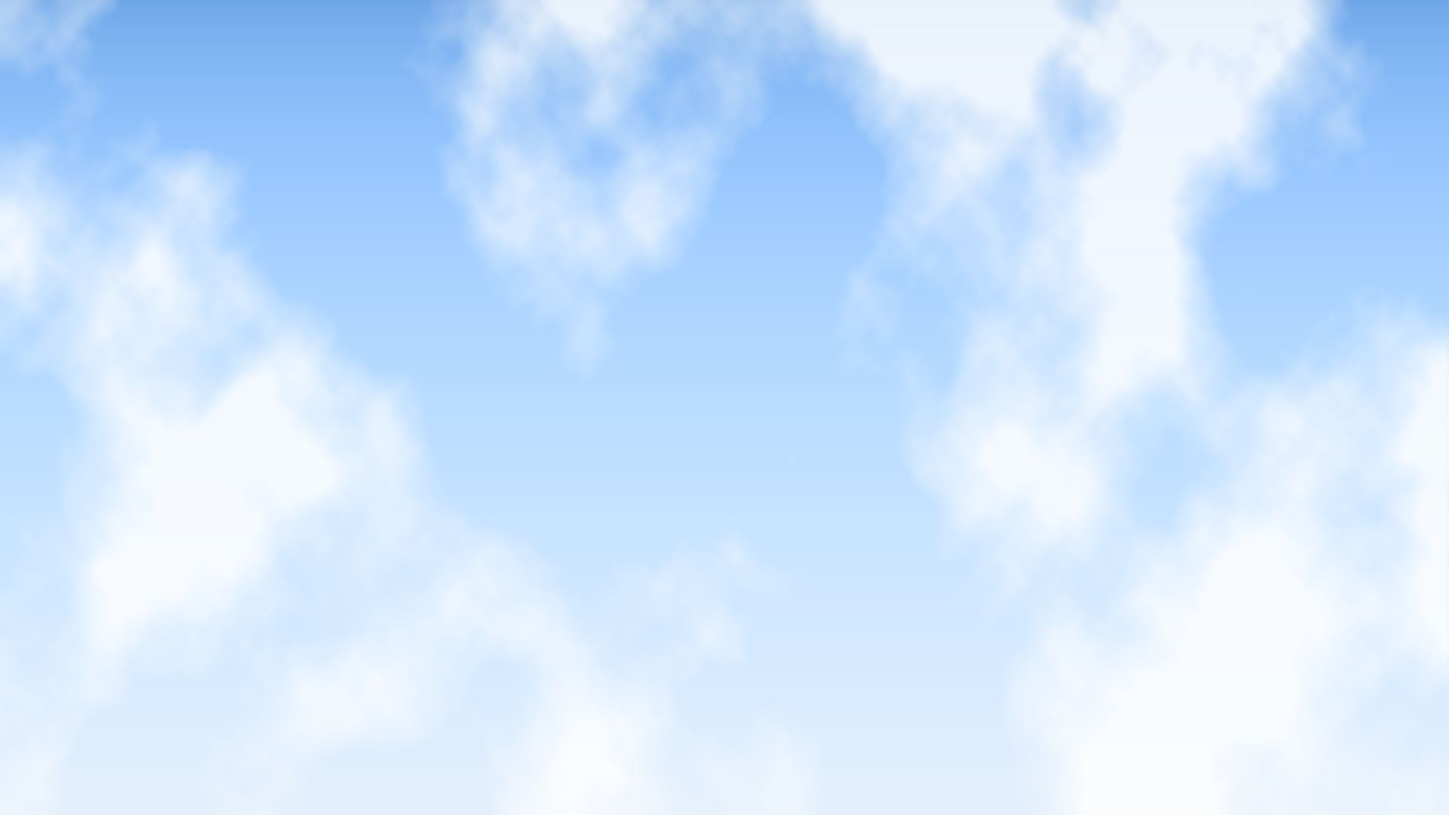
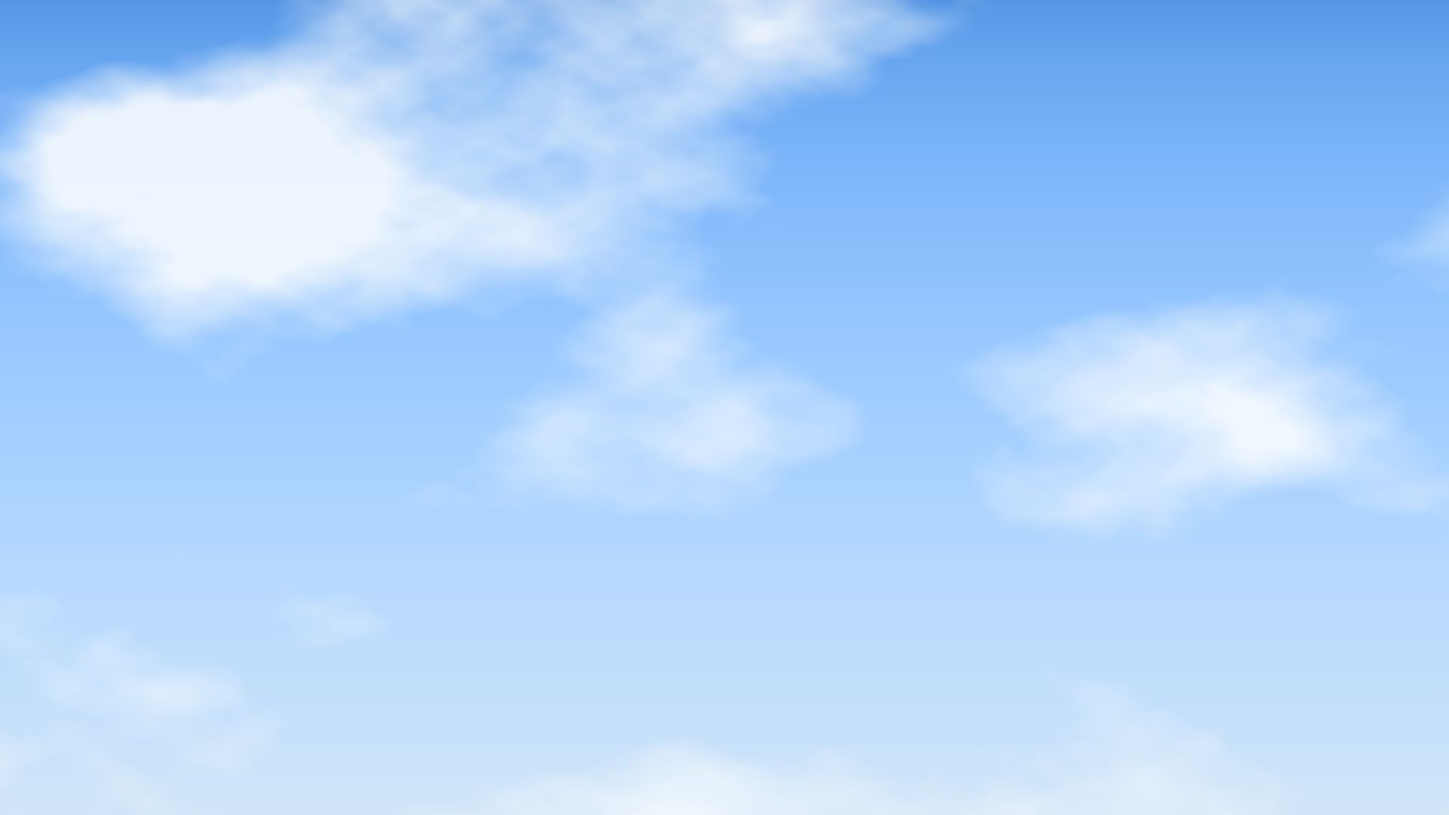
Home 9: sliding sky, frost oval, photo tiles, video slot

diff --git a/static/home-9.html b/static/home-9.html
@@ -43,10 +43,14 @@ nav.m>a:hover,nav.m>.dd:hover>a{color:var(--btn)}
 /* ---------- hero ---------- */
 #hero{position:relative;min-height:max(100svh,760px);display:grid;align-items:center;overflow:hidden;background:#9cc4ee}
 .sky{position:absolute;inset:0;overflow:hidden}
-.sky i{position:absolute;inset:-3% -5%;background-size:cover;background-position:center;opacity:0;transition:opacity 2.6s ease;will-change:transform,opacity}
-.sky i.on{opacity:1}.sky i.on,.sky i.prev{animation:drift 20s linear forwards}
-@keyframes drift{from{transform:translate3d(calc(var(--d,1)*-2.4%),0,0) scale(1.05)}to{transform:translate3d(calc(var(--d,1)*2.4%),0,0) scale(1.05)}}
-.sky::after{content:"";position:absolute;inset:0;background:linear-gradient(90deg,#ffffff59,#ffffff00 58%),linear-gradient(to bottom,#fff0 66%,var(--paper))}
+.trk{display:flex;height:100%;width:max-content;animation:slide var(--dur,110s) linear infinite;will-change:transform}
+.trk i{flex:none;width:100vw;height:100%;background-size:cover;background-position:center}
+@keyframes slide{from{transform:translate3d(-50%,0,0)}to{transform:translate3d(0,0,0)}}
+.frost{position:absolute;inset:0;z-index:1;pointer-events:none}
+.frost .fz{position:absolute;inset:0;clip-path:url(#fzc);-webkit-clip-path:url(#fzc);backdrop-filter:blur(14px) saturate(1.05);-webkit-backdrop-filter:blur(14px) saturate(1.05);background:linear-gradient(165deg,#ffffff6b,#dfe9f573 45%,#eaf1f9a6)}
+.frost svg{position:absolute;inset:0;width:100%;height:100%;overflow:visible}
+.frost .ln{fill:none;stroke:#fff;stroke-linecap:round;vector-effect:non-scaling-stroke}
+.vfade{position:absolute;inset:auto 0 0;height:22%;z-index:2;background:linear-gradient(#fff0,var(--paper));pointer-events:none}
 .hin{position:relative;z-index:3;width:100%;max-width:1920px;margin:auto;padding:118px clamp(24px,7.5vw,150px) 96px;display:grid;grid-template-columns:minmax(300px,24vw) minmax(0,1fr);gap:clamp(28px,2.6vw,52px);align-items:center}
 .hl .ey{font-weight:700;font-size:.9rem;text-transform:uppercase;letter-spacing:.015em;margin-bottom:26px;max-width:340px;line-height:1.35}
 .hl h1{font-weight:600;font-size:clamp(2.4rem,2.55vw + 1.1rem,3.9rem);line-height:1.04;letter-spacing:-.022em}
@@ -90,7 +94,7 @@ nav.m>a:hover,nav.m>.dd:hover>a{color:var(--btn)}
  .cell img{height:40px}
  .spin img{transform:translateZ(calc((var(--i) - 6.5)*1px))}
 }
-@media(prefers-reduced-motion:reduce){html{scroll-behavior:auto}.spin{animation:none}.sky i.on,.sky i.prev{animation:none}*{transition-duration:.01s!important}}
+@media(prefers-reduced-motion:reduce){html{scroll-behavior:auto}.spin{animation:none}.trk{animation:none}*{transition-duration:.01s!important}}
 
 /* floating actions */
 .fab{position:fixed;right:clamp(14px,1.6vw,28px);bottom:clamp(14px,2.6vw,40px);z-index:55;display:grid;gap:9px;justify-items:end}
@@ -118,25 +122,56 @@ nav.m>a:hover,nav.m>.dd:hover>a{color:var(--btn)}
 @keyframes fl{50%{translate:0 -12px}}
 @media(max-width:860px){.ask{grid-template-columns:1fr}.orb{width:min(70vw,340px)}}
 
-/* ---------- services ---------- */
-#services{padding:clamp(80px,9vw,140px) 0;background:#fff}
-.sh{text-align:center;display:grid;justify-items:center}
-.sg{display:grid;grid-template-columns:repeat(3,1fr);gap:clamp(16px,2vw,28px);margin-top:clamp(40px,5vw,70px)}
-.sc2{position:relative;display:flex;flex-direction:column;background:linear-gradient(#fff,#f4f8fd);border:1px solid #0b1f4b17;border-radius:20px;overflow:hidden;transition:transform .35s,box-shadow .35s}
-.sc2:hover{transform:translateY(-6px);box-shadow:0 26px 54px #0b1f4b24}
-.sc2:target{box-shadow:0 0 0 3px var(--blue),0 26px 54px #17ade840}
-.sc2 .im{height:210px;display:grid;place-items:center;padding:28px;background:radial-gradient(circle at 50% 60%,#dff1ff,#eef6fd 70%)}
-.sc2 .im img{height:150px;width:auto;max-width:72%;object-fit:contain}
-.sc2 .tx{padding:26px 28px 30px;display:flex;flex-direction:column;gap:12px;flex:1}
-.sc2 h3{font-weight:700;font-size:1.28rem;line-height:1.2;letter-spacing:-.01em}
-.sc2 p{color:var(--mute);line-height:1.6;font-size:.98rem;flex:1}
-.sc2 .go{font-weight:800;font-size:.86rem;text-transform:uppercase;color:var(--btn);display:inline-flex;gap:10px;align-items:center;margin-top:6px}
-.sc2 .go i{font-style:normal;transition:translate .3s}.sc2 .go:hover i{translate:6px 0}
-.chips{display:flex;flex-wrap:wrap;gap:10px;justify-content:center;margin-top:clamp(50px,6vw,84px);max-width:1100px;margin-inline:auto}
-.chips span{padding:10px 18px;border-radius:999px;background:var(--paper);border:1px solid #0b1f4b14;font-weight:600;font-size:.92rem;color:#243253}
-.chips-t{text-align:center;margin-top:clamp(50px,6vw,84px);font-size:1.05rem;font-weight:700;color:var(--mute)}
-.chips-t+.chips{margin-top:20px}
-@media(max-width:1000px){.sg{grid-template-columns:1fr 1fr}}@media(max-width:620px){.sg{grid-template-columns:1fr}}
+/* ---------- video / about ---------- */
+#vid{background:linear-gradient(var(--paper),#e9eff7);padding:clamp(40px,5vw,80px) 0 clamp(60px,7vw,110px)}
+.vg{display:grid;grid-template-columns:1.08fr 1fr;gap:clamp(30px,5vw,90px);align-items:center}
+.vb{position:relative;aspect-ratio:16/9;border-radius:22px;overflow:hidden;background:#06163f;box-shadow:0 30px 70px #0b1f4b40;border:1px solid #ffffffaa}
+.vb>img,.vb>video,.vb>iframe{position:absolute;inset:0;width:100%;height:100%;object-fit:cover;border:0}
+.vb .pl{position:absolute;left:50%;top:50%;translate:-50% -50%;width:84px;height:84px;border-radius:50%;background:#ffffffee;display:grid;place-items:center;box-shadow:0 12px 40px #0008;transition:transform .3s}
+.vb .pl:hover{transform:scale(1.08)}.vb .pl::after{content:"";border-left:24px solid var(--btn);border-top:15px solid transparent;border-bottom:15px solid transparent;margin-left:7px}
+.vt .lb{font-size:.76rem;letter-spacing:.12em;text-transform:uppercase;color:#6d7a94;font-weight:600}
+.vt h2{font-weight:600;font-size:clamp(1.7rem,2.3vw,2.4rem);line-height:1.12;letter-spacing:-.015em;margin:16px 0 18px;color:#1d2c4d}
+.vt p{color:var(--mute);line-height:1.7}.vt p b{display:block;margin-top:16px;color:#1d2c4d;font-weight:700}
+.vt .cta{height:52px;padding:0 28px;margin-top:30px;font-size:.92rem}
+@media(max-width:900px){.vg{grid-template-columns:1fr}}
+
+/* ---------- services (photo tiles, two staggered columns) ---------- */
+#services{padding:clamp(70px,8vw,130px) 0;background:linear-gradient(#e9eff7,#fff 30%)}
+.sv{display:grid;grid-template-columns:minmax(250px,.75fr) 2fr;gap:clamp(30px,5vw,90px);align-items:start}
+.svh{position:sticky;top:120px}
+.svh .h2{font-weight:500}
+.chips-t{margin-top:38px;font-size:.95rem;font-weight:700;color:var(--mute)}
+.chips{display:flex;flex-wrap:wrap;gap:8px;margin-top:14px}
+.chips span{padding:8px 14px;border-radius:999px;background:#fff;border:1px solid #0b1f4b14;font-weight:600;font-size:.82rem;color:#243253}
+.cols{display:grid;grid-template-columns:1fr 1fr;gap:clamp(14px,1.8vw,26px)}
+.col{display:grid;gap:clamp(14px,1.8vw,26px);align-content:start;will-change:transform}
+.col.b{padding-top:clamp(60px,8vw,130px)}
+.tile{position:relative;display:flex;flex-direction:column;justify-content:flex-end;aspect-ratio:1.18;border-radius:20px;overflow:hidden;color:#fff;isolation:isolate;border:1px solid #ffffff80;box-shadow:0 22px 50px #0b1f4b2b;background:radial-gradient(circle at 72% 32%,hsl(var(--h) 72% 40%),hsl(var(--h) 66% 14%) 74%);transition:transform .4s,box-shadow .4s}
+.tile:hover,.tile:focus-visible{transform:translateY(-5px);box-shadow:0 32px 64px #0b1f4b45}
+.tile:target{box-shadow:0 0 0 3px var(--blue),0 32px 64px #17ade855}
+.tile .ph{position:absolute;inset:0;z-index:-2;background-size:cover;background-position:center;transition:transform .8s}
+.tile:hover .ph{transform:scale(1.06)}
+.tile .ic{position:absolute;z-index:-1;right:7%;top:9%;height:50%;width:auto;max-width:62%;object-fit:contain;filter:drop-shadow(0 16px 20px #0007);transition:transform .6s}
+.tile .ic.inv{filter:brightness(0) invert(1) drop-shadow(0 10px 16px #0006)}
+.tile:hover .ic{transform:scale(1.07) rotate(-2deg)}
+.tile::after{content:"";position:absolute;inset:0;z-index:-1;background:linear-gradient(to top,#04103ad9 6%,#04103a66 40%,#04103a00 66%)}
+.tile .tt{padding:0 clamp(16px,1.8vw,26px) clamp(16px,1.8vw,24px)}
+.tile h3{font-weight:600;font-size:clamp(1.25rem,1.85vw,1.9rem);line-height:1.08;letter-spacing:-.015em;text-shadow:0 2px 16px #0007}
+.tile p{font-size:.92rem;line-height:1.5;color:#ffffffd9;max-height:0;opacity:0;overflow:hidden;transition:max-height .45s,opacity .4s,margin .4s}
+.tile:hover p,.tile:focus-visible p{max-height:120px;opacity:1;margin-top:10px}
+.tile .go{position:absolute;right:16px;top:16px;width:38px;height:38px;border-radius:50%;background:#ffffffd9;color:var(--btn);display:grid;place-items:center;font-size:1.1rem;font-weight:800;transition:transform .3s,background .3s}
+.tile:hover .go{transform:rotate(-45deg);background:#fff}
+@media(max-width:1000px){.sv{grid-template-columns:1fr}.svh{position:static}}
+@media(max-width:620px){.tile{aspect-ratio:1;border-radius:16px}.tile p{display:none}.tile .go{display:none}.col.b{padding-top:44px}.tile h3{font-size:1.08rem}}
+
+/* ---------- cta band ---------- */
+#band{background:#fff;padding:0 0 clamp(60px,7vw,100px)}
+.bd{display:grid;grid-template-columns:auto 1fr auto;gap:clamp(20px,4vw,60px);align-items:center;border-radius:26px;padding:clamp(24px,3.4vw,46px) clamp(24px,4vw,64px);color:#fff;background:radial-gradient(circle at 12% 50%,#1b6fe0,#0a2f78 45%,#061a4d);box-shadow:0 30px 70px #0b1f4b40;overflow:hidden}
+.bd img{height:clamp(90px,10vw,150px);filter:drop-shadow(0 0 30px #6fc9ff)}
+.bd small{font-size:.76rem;letter-spacing:.12em;text-transform:uppercase;color:#9fd4ff;font-weight:600}
+.bd h2{font-weight:500;font-size:clamp(1.5rem,2.4vw,2.3rem);line-height:1.12;margin-top:10px;max-width:620px}
+.bd .cta{margin:0;background:#17ade8;height:54px;white-space:nowrap}.bd .cta:hover{background:#fff;color:var(--navy)}
+@media(max-width:820px){.bd{grid-template-columns:1fr;text-align:center;justify-items:center}}
 
 /* ---------- about + stats ---------- */
 #about{background:linear-gradient(#fff,var(--paper));padding:clamp(70px,8vw,130px) 0 clamp(70px,8vw,120px)}
@@ -233,15 +268,18 @@ cl=cl.map(c=>Array.isArray(c)?{i:c[0],t:"Hardware & Office IT",img:S[c[1]].img}:
 const cell=c=>`<a class="cell" href="#svc-${c.i}" title="${esc(c.t)}"><img src="${esc(c.img)}" alt=""><span>${esc(c.t)}</span></a>`;
 const L=8;let lay="";for(let k=0;k<14;k++)lay+=`<img src="/img/shield.png" alt="" style="--i:${k}" ${k&&k<13?'class="mid"':""}>`;
 const PATH="M30,0H372C405,0 418,66 462,66H638C682,66 695,0 728,0H1070Q1100,0 1100,30V370Q1100,400 1070,400H728C695,400 682,334 638,334H462C418,334 405,400 372,400H30Q0,400 0,370V30Q0,0 30,0Z";
-const slides=(C.hero_slides&&C.hero_slides.length?C.hero_slides:DEF.hero_slides);
+const FZT="M0,.58C.08,.36 .26,.2 .4,.1C.48,.04 .53,0 .58,0C.68,0 .84,.12 .93,.2C.96,.23 .98,.25 1,.27",FZ=FZT+"L1,1L0,1";
+const slides=(C.hero_slides||[]).filter(Boolean).length?C.hero_slides.filter(Boolean):DEF.hero_slides;
 
 const BL=p=>{const b=(C.blocks&&C.blocks[p])||[];return b.length?`<div class="wrap">${b.map(x=>x.type=="text"?`<section class="blk"><h2>${esc(x.title)}</h2><p>${esc(x.body)}</p></section>`:x.type=="media"?`<figure class="blk">${M(x.url)}</figure>`:x.type=="gallery"?`<section class="blk">${x.title?`<h2>${esc(x.title)}</h2>`:""}<div class="gal">${(x.urls||[]).map(M).join("")}</div></section>`:x.type=="cta"?`<section class="blk"><a class="cta" href="#${esc(x.target||"contact")}">${esc(x.label)}</a></section>`:"").join("")}</div>`:""};
 const why=C.why.map((w,i)=>`<article class="${i?"":"on"}"><h3>${esc(w.t)}</h3><p>${esc(w.d)}</p></article>`).join("");
 const clients=C.clients.map(u=>`<div class="cc">${M(u)}</div>`).join("");
 const ask=(C.ask||[]).map(a=>`<li><a href="${esc(a.href||"#contact")}"><span>${esc(a.q)}</span><i>›</i></a></li>`).join("");
 
+const tile=(s,i)=>{const ph=s.bg&&!isV(s.bg)?`<div class="ph" style="background-image:url('${encodeURI(s.bg).replace(/'/g,"%27")}')"></div>`:"",ic=ph?"":`<img class="ic ${s.inv?"inv":""}" src="${esc(s.img)}" alt="">`;return `<a class="tile" id="svc-${i}" href="#contact" data-s="${esc(s.title)}" style="--h:${205+(i%5)*6}">${ph}${ic}<span class="go">→</span><div class="tt"><h3>${esc(s.title)}</h3><p>${esc(s.desc)}</p></div></a>`};
 $("#top").innerHTML=`
-<section id="hero"><div class="sky">${slides.map(()=>"<i></i>").join("")}</div>
+<section id="hero"><div class="sky"><div class="trk" style="--dur:${slides.length*22}s">${[...slides,...slides].map(u=>`<i style="background-image:url('${encodeURI(u)}')"></i>`).join("")}</div></div>
+ <div class="frost" aria-hidden="true"><div class="fz"></div><svg viewBox="0 0 1 1" preserveAspectRatio="none"><defs><clipPath id="fzc" clipPathUnits="objectBoundingBox"><path d="${FZ}Z"/></clipPath><filter id="fgl" x="-5%" y="-5%" width="110%" height="110%"><feGaussianBlur stdDeviation="3"/></filter></defs><path class="ln" d="${FZT}" stroke-width="9" stroke-opacity=".5" filter="url(#fgl)"/><path class="ln" d="${FZT}" stroke-width="2.5"/><path class="ln" d="${FZT}" stroke-width="1.5" stroke-opacity=".6" transform="translate(0 .018)"/></svg></div><div class="vfade"></div>
  <div class="hin">
   <div class="hl"><div class="ey">${X("loader_tagline")}</div><h1>${X("hero_title")}</h1><p>${X("hero_sub")}</p><a class="cta" href="#contact">${X("hero_cta")}</a></div>
   <div class="panel">
@@ -252,11 +290,15 @@ $("#top").innerHTML=`
   </div>
  </div></section>
 
+<section id="vid"><div class="wrap vg"><div class="vb" id="vb"><img src="${esc(C.video&&C.video.poster||"/img/video-poster.jpg")}" alt="">${(C.video&&(C.video.src||C.video.url))?`<button class="pl" id="plb" aria-label="Play video"></button>`:""}</div>
+ <div class="vt"><div class="lb">${X("video_tag")}</div><h2>${X("video_title")}</h2><p>${X("video_p")}<b>${X("video_b")}</b></p><a class="cta" href="#about">${X("video_btn")}</a></div></div></section>
+
 <section id="ask"><div class="wrap ask"><div><h2 class="h2">${X("ask_title")}</h2><p class="lead">${X("ask_sub")}</p><ul class="ql">${ask}</ul></div><div class="orb"><img src="/img/shield.png" alt="Topform shield"></div></div></section>
 
-<section id="services"><div class="wrap"><div class="sh"><h2 class="h2">${X("svc_tag")}</h2><p class="lead">${X("svc_sub")}</p></div>
- <div class="sg">${S.map((s,i)=>`<article class="sc2" id="svc-${i}"><div class="im">${M(s.img)}</div><div class="tx"><h3>${esc(s.title)}</h3><p>${esc(s.desc)}</p><a class="go" href="#contact" data-s="${esc(s.title)}">${X("svc_more")} <i>→</i></a></div></article>`).join("")}</div>
- <p class="chips-t">${X("tags_title")}</p><div class="chips">${C.tags.map(t=>`<span>${esc(t)}</span>`).join("")}</div></div>${BL("services")}</section>
+<section id="services"><div class="wrap sv"><div class="svh"><h2 class="h2">${X("svc_tag")}</h2><p class="lead">${X("svc_sub")}</p><p class="chips-t">${X("tags_title")}</p><div class="chips">${C.tags.slice(0,10).map(t=>`<span>${esc(t)}</span>`).join("")}</div></div>
+ <div class="cols"><div class="col a" id="ca">${S.map((s,i)=>i%2?"":tile(s,i)).join("")}</div><div class="col b" id="cb">${S.map((s,i)=>i%2?tile(s,i):"").join("")}</div></div></div>${BL("services")}</section>
+
+<section id="band"><div class="wrap"><div class="bd"><img src="/img/shield.png" alt=""><div><small>${X("svc_since")}</small><h2>${X("svc_cta")}</h2></div><a class="cta" href="#contact">${X("band_btn")}</a></div></div></section>
 
 <section id="about"><div class="wrap"><div class="ab"><h2 class="h2">${X("about_title")}</h2><div><p>${X("about_p")}</p><p>${X("about_stmt")}</p></div></div>
  <div class="st"><div><b data-c="${yr-since}" data-x="+">0</b><span>Years serving the UAE</span></div><div><b data-c="${C.branches.length}">0</b><span>Branches</span></div><div><b data-c="${N}">0</b><span>Services under one roof</span></div></div></div>${BL("about")}</section>
@@ -281,10 +323,13 @@ $("#top").innerHTML=`
  <div><b>Visit</b><span>${X("office")}</span></div></div>
  <div class="cp"><span>© ${yr} ${X("footer")}</span><span>Secure · Connect · Power</span></div></div></footer>`;
 
-// sky slideshow
-const sk=$$(".sky i");sk.forEach((e,i)=>{const u=slides[i];if(i==0)e.style.backgroundImage=`url("${encodeURI(u)}")`;else{const im=new Image();im.onload=()=>e.style.backgroundImage=`url("${encodeURI(u)}")`;im.src=u}});
-let k=-1;function go(n){const p=sk[k];k=n%sk.length;const c=sk[k];c.style.setProperty("--d",k%2?-1:1);c.classList.remove("prev");c.classList.add("on");if(p&&p!==c){p.classList.remove("on");p.classList.add("prev");setTimeout(()=>p.classList.remove("prev"),3000)}}
-go(0);if(sk.length>1&&!calm)setInterval(()=>go(k+1),9000);
+// video play
+const plb=$("#plb");if(plb)plb.onclick=()=>{const v=C.video,u=v.src||v.url,vb=$("#vb");let m=u.match(/(?:youtu\.be\/|youtube\.com\/(?:watch\?v=|embed\/|shorts\/))([\w-]{11})/),vm=u.match(/vimeo\.com\/(\d+)/);
+ vb.innerHTML=m?`<iframe src="https://www.youtube.com/embed/${m[1]}?autoplay=1&rel=0" allow="autoplay;fullscreen" allowfullscreen></iframe>`:vm?`<iframe src="https://player.vimeo.com/video/${vm[1]}?autoplay=1" allow="autoplay;fullscreen" allowfullscreen></iframe>`:`<video src="${esc(u)}" controls autoplay playsinline></video>`};
+// service columns: gentle opposite drift on scroll
+const ca=$("#ca"),cb=$("#cb"),sv=$("#services");let tk=0;
+function par(){tk=0;if(calm||innerWidth<1000){ca.style.transform=cb.style.transform="";return}const r=sv.getBoundingClientRect(),p=Math.max(-1,Math.min(1,(r.top+r.height/2-innerHeight/2)/innerHeight));ca.style.transform=`translateY(${(p*-46).toFixed(1)}px)`;cb.style.transform=`translateY(${(p*46).toFixed(1)}px)`}
+addEventListener("scroll",()=>{if(!tk){tk=1;requestAnimationFrame(par)}},{passive:true});addEventListener("resize",par);par();
 
 // header + menu
 const hd=$("#hd"),nv=$("#nv"),bg=$("#bg");
@@ -303,7 +348,7 @@ const rst=()=>{clearInterval(au);if(!calm&&sl.length>1)au=setInterval(()=>show(s
 db.forEach(b=>b.onclick=()=>{show(+b.dataset.n);rst()});
 
 // service button pre-fills the enquiry subject
-$$(".sc2 .go").forEach(a=>a.addEventListener("click",()=>{const f=$("#fm [name=Subject]");if(f)f.value=a.dataset.s}));
+$$(".tile").forEach(a=>a.addEventListener("click",()=>{const f=$("#fm [name=Subject]");if(f)f.value=a.dataset.s}));
 
 // branches
 document.addEventListener("click",e=>{const b=e.target.closest(".tb button");if(b){$$(".tb button").forEach(x=>x.classList.remove("on"));b.classList.add("on");$("#branches iframe").src="https://www.google.com/maps?q="+encodeURIComponent(b.dataset.q)+"&output=embed"}});

diff --git a/static/admin.html b/static/admin.html
@@ -40,7 +40,7 @@ const ctl=(a,i)=>el("div",{class:"row"},el("button",{class:"btn s",onclick:()=>m
 const up=(f,pr)=>new Promise((res,rej)=>{const x=new XMLHttpRequest();x.open("POST","/api/admin/upload");x.setRequestHeader("X-Requested-With","tf");x.upload.onprogress=e=>pr&&e.lengthComputable&&pr(e.loaded/e.total);x.onload=()=>x.status===200?res(JSON.parse(x.responseText)):rej(new Error(x.responseText||("HTTP "+x.status)));x.onerror=()=>rej(new Error("network error"));const fd=new FormData();fd.append("file",f);x.send(fd)});
 async function uploadMany(files,after,bar=$("#mb")){const i=bar.firstChild;bar.hidden=false;for(const f of files){try{i.style.width="0";await up(f,p=>i.style.width=(p*100)+"%")}catch(e){alert(f.name+": "+e.message)}}bar.hidden=true;after&&after()}
 async function loadMedia(cb){const b=$("#mbody");b.replaceChildren("Loading…");let list=[];try{list=await (await api("GET","/api/admin/media")).json()}catch(e){}
- const built=[...new Set([DEF.logo,DEF.icon,...DEF.services.map(s=>s.img),...DEF.products,...DEF.clients])];
+ const built=[...new Set([DEF.logo,DEF.icon,...DEF.services.map(s=>s.img),...DEF.products,...DEF.clients,...DEF.hero_slides,DEF.video.poster])];
  b.replaceChildren(...[...list.map(m=>({u:m.url,n:m.name,del:1})),...built.map(u=>({u,n:"built-in"}))].map(m=>{const c=el("div",{class:"mi",onclick:()=>cb&&cb(m.u)},el("div",{class:"pv"},prev(m.u)),el("small",{},m.n));
   if(m.del)c.append(el("button",{class:"btn s d",onclick:async e=>{e.stopPropagation();if(!confirm("Delete this file permanently?"))return;await api("DELETE","/api/admin/media?name="+encodeURIComponent(m.n));loadMedia(cb)}},"Delete"));return c}))}
 function pick(cb){const m=$("#modal");m.hidden=false;const sel=u=>{m.hidden=true;cb(u)};loadMedia(sel);$("#mu").onchange=e=>{uploadMany([...e.target.files],()=>loadMedia(sel));e.target.value=""}}
@@ -50,10 +50,10 @@ const hum=k=>k.replace(/_/g," ").replace(/^./,c=>c.toUpperCase());
 function listEd(title,arr,mk,blank){const c=el("div",{class:"card"},el("h3",{},title));arr.forEach((x,i)=>c.append(el("div",{class:"card",style:"background:#f6f9fe;box-shadow:none"},mk(x,i),ctl(arr,i))));c.append(el("button",{class:"btn s",onclick:()=>{arr.push(blank());mark();render()}},"+ Add"));return c}
 const TABS={
  texts:()=>{const g={};Object.keys(DEF.text).forEach(k=>(g[sectionOf(k)]??=[]).push(k));return[...Object.entries(g).map(([n,ks])=>el("div",{class:"card"},el("h3",{},n),ks.map(k=>fld(hum(k),D.text,k,(D.text[k]||"").length>70)))),chipEd()]},
- services:()=>[listEd("Services",D.services,(s)=>el("div",{class:"grid2"},el("div",{class:"f"},fld("Title",s,"title"),fld("Description",s,"desc",1),fld("Emoji / icon",s,"icon"),el("label",{class:"row"},(()=>{const c=el("input",{type:"checkbox",style:"width:auto"});c.checked=!!s.inv;c.onchange=()=>{s.inv=c.checked;mark()};return c})(),"Show in white on dark cards (for black icons)")),el("div",{},mfld("Centre piece: image / GIF / video",s,"img"),(()=>{const f=mfld("Room background image (hero, wide 16:9 or 2:1)",s,"bg");f.querySelector(".row").append(el("button",{class:"btn s d",onclick:()=>{s.bg="";mark();render()}},"Clear"));return f})())),()=>({icon:"",title:"New service",desc:"",img:"/img/cctv.png",bg:""}))],
+ services:()=>[listEd("Services",D.services,(s)=>el("div",{class:"grid2"},el("div",{class:"f"},fld("Title",s,"title"),fld("Description",s,"desc",1),fld("Emoji / icon",s,"icon"),el("label",{class:"row"},(()=>{const c=el("input",{type:"checkbox",style:"width:auto"});c.checked=!!s.inv;c.onchange=()=>{s.inv=c.checked;mark()};return c})(),"Show in white on dark cards (for black icons)")),el("div",{},mfld("Centre piece: image / GIF / video",s,"img"),(()=>{const f=mfld("Card photo for Home 9 service cards / room background (wide, 16:9)",s,"bg");f.querySelector(".row").append(el("button",{class:"btn s d",onclick:()=>{s.bg="";mark();render()}},"Clear"));return f})())),()=>({icon:"",title:"New service",desc:"",img:"/img/cctv.png",bg:""}))],
  why:()=>[listEd("Why choose us",D.why,w=>el("div",{},fld("Title",w,"t"),fld("Text",w,"d",1)),()=>({t:"New point",d:""}))],
  lists:()=>[listEd("Home page: Ask Topform questions (link: #contact, #about, #branches, #svc-0 ...)",D.ask=D.ask||[],q=>el("div",{class:"grid2"},fld("Question",q,"q"),fld("Link",q,"href")),()=>({q:"New question",href:"#contact"})),el("div",{class:"card"},el("h3",{},"Install & support tags (one per line)"),(()=>{const t=el("textarea",{rows:10});t.value=D.tags.join("\n");t.oninput=()=>{D.tags=t.value.split("\n").map(x=>x.trim()).filter(Boolean);mark()};return t})()),listEd("Branches (name + map search text)",D.branches,b=>el("div",{class:"grid2"},fld("Name",b,"name"),fld("Google Maps search",b,"q")),()=>({name:"New branch",q:""}))],
- media:()=>[mediaLists("Home page hero: sliding sky background (replace with your own photos, wide 16:9, 1920px+)",D.hero_slides=D.hero_slides||[]),mediaLists("Client logos (rotating ring on the Services page)",D.clients),mediaLists("Scrolling product images / GIFs / videos (Services page, bottom)",D.products),el("div",{class:"card"},el("h3",{},"Branding"),el("div",{class:"grid2"},mfld("Logo (wide, light)",D,"logo"),mfld("Icon (square)",D,"icon")))],
+ media:()=>[(()=>{const hs=D.hero_slides=D.hero_slides||[];for(let i=0;i<5;i++)if(!hs[i])hs[i]=DEF.hero_slides[i];return el("div",{class:"card"},el("h3",{},"Home 9 hero: sliding sky background (5 slides, wide photos 1920px or larger)"),el("div",{class:"grid2"},[0,1,2,3,4].map(i=>mfld("Slide "+(i+1),hs,i))))})(),(()=>{const v=D.video=D.video||{...DEF.video};return el("div",{class:"card"},el("h3",{},"Home 9 video (next to the About text)"),el("div",{class:"grid2"},mfld("Video file (MP4 / WEBM): choose or upload",v,"src"),mfld("Poster image (shown before play)",v,"poster")),fld("...or paste a YouTube / Vimeo / MP4 link (used if no file chosen)",v,"url"),el("div",{class:"row"},el("button",{class:"btn s d",onclick:()=>{v.src="";v.url="";mark();render()}},"Remove video (keep poster only)")))})(),mediaLists("Client logos (rotating ring on the Services page)",D.clients),mediaLists("Scrolling product images / GIFs / videos (Services page, bottom)",D.products),el("div",{class:"card"},el("h3",{},"Branding"),el("div",{class:"grid2"},mfld("Logo (wide, light)",D,"logo"),mfld("Icon (square)",D,"icon")))],
  pages:()=>{const bl=D.blocks[pg]??=[];const sel=el("select",{onchange:e=>{pg=e.target.value;render()}},["about","services","contact","branches"].map(p=>el("option",{value:p,...(p===pg?{selected:""}:{})},hum(p)+" page")));
   const add=t=>()=>{bl.push(t==="text"?{type:t,title:"New heading",body:""}:t==="media"?{type:t,url:"/img/cctv.png",caption:""}:t==="gallery"?{type:t,title:"",urls:[]}:{type:t,title:"Call to action",label:"Get in touch",target:"contact"});mark();render()};
   return[el("div",{class:"card"},el("h3",{},"Page components"),el("p",{},"Pick a page, then add components. They appear at the bottom of that page."),sel,el("div",{class:"row"},["text","media","gallery","cta"].map(t=>el("button",{class:"btn s p",onclick:add(t)},"+ "+({text:"Text",media:"Image / GIF / Video",gallery:"Gallery",cta:"Button"}[t]))))),

diff --git a/static/defaults.js b/static/defaults.js
@@ -19,6 +19,12 @@ window.DEFAULTS={
   "cl_title": "Trusted across the Emirates",
   "svc_more": "Discover",
   "why_tag": "Why choose us",
+  "video_tag": "About Topform Technologies",
+  "video_title": "One partner for security, networks and software",
+  "video_p": "From CCTV and door access to PABX, websites, custom software and mobile apps, Topform has designed, installed and supported IT systems for businesses across the UAE since 2010.",
+  "video_b": "Secure, connect and power your business with 100% result-oriented service.",
+  "video_btn": "Learn more",
+  "band_btn": "Get in touch",
   "about_tag": "About",
   "about_title": "And it's innovative IT solutions",
   "about_p": "Topform Technologies is considered to be world-class IT sales and services, website design and development, with hardware company founded in 2010. Our goal is to commit on delivering bespoke customer service, 100% result oriented services to our valued customers.",
@@ -57,8 +63,10 @@ window.DEFAULTS={
   "/img/sky1.jpg",
   "/img/sky2.jpg",
   "/img/sky3.jpg",
-  "/img/sky4.jpg"
+  "/img/sky4.jpg",
+  "/img/sky5.jpg"
  ],
+ "video": {"src": "", "url": "", "poster": "/img/video-poster.jpg"},
  "ask": [
   {"q": "What does Topform Technologies do?", "href": "#about"},
   {"q": "Which CCTV and door access system fits my business?", "href": "#svc-0"},
